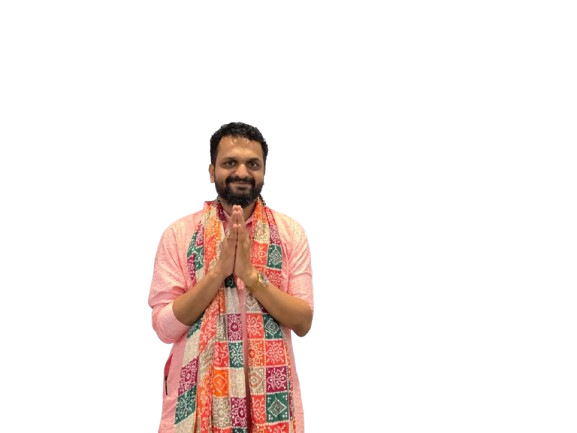
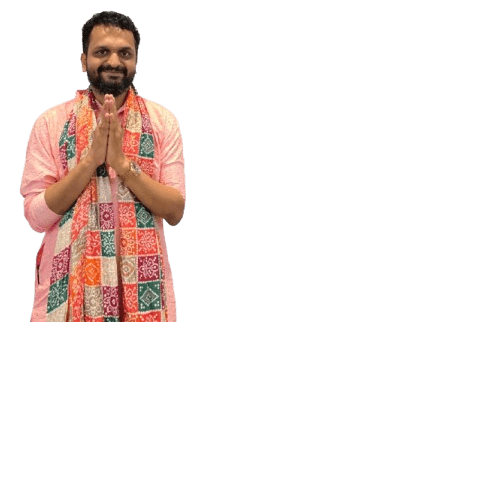
Developer's Message: use the cropped, background-removed photo (embedded)
Crops the uploaded photo to a square avatar (face + namaste hands) and
embeds it as a data URL (src/lib/devPhoto.js) so it shows on the website,
the single-file HTML and the APK alike.

https://claude.ai/code/session_01TpTyDpnFEKKLYPB6JWhLEo

Changed region(s): [[0.0312, 0.0, 0.5625, 1.0]]

diff --git a/src/lib/devPhoto.js b/src/lib/devPhoto.js
@@ -1,0 +1,2 @@
+// Developer photo (background removed, square) embedded as a data URL
[1 lines of base64/hex data omitted]

diff --git a/src/components/DeveloperMessage.jsx b/src/components/DeveloperMessage.jsx
@@ -1,4 +1,4 @@
-import { useState } from 'react'
+import devPhoto from '../lib/devPhoto.js'
 
 const NAME = 'Rakesh Makani'
 
@@ -12,19 +12,7 @@ to themselves, then every hour I spent on it was worth it.
 
 Thank you for using it. — Rakesh`
 
-// Tries a transparent PNG first, then a JPG, then falls back to initials.
-const base = import.meta.env.BASE_URL
-const SOURCES = [`${base}developer.png`, `${base}developer.jpg`]
-
 export default function DeveloperMessage({ onClose }) {
-  const [idx, setIdx] = useState(0)
-  const [failed, setFailed] = useState(false)
-
-  function onImgError() {
-    if (idx + 1 < SOURCES.length) setIdx(idx + 1)
-    else setFailed(true)
-  }
-
   return (
     <div className="dev-overlay" onClick={onClose}>
       <div className="dev-modal" onClick={(e) => e.stopPropagation()}>
@@ -33,11 +21,7 @@ export default function DeveloperMessage({ onClose }) {
         </button>
 
         <div className="dev-photo">
-          {!failed ? (
-            <img src={SOURCES[idx]} alt={NAME} onError={onImgError} />
-          ) : (
-            <span>{NAME.split(' ').map((w) => w[0]).join('').slice(0, 2)}</span>
-          )}
+          <img src={devPhoto} alt={NAME} />
         </div>
 
         <h3 className="dev-name">{NAME}</h3>
